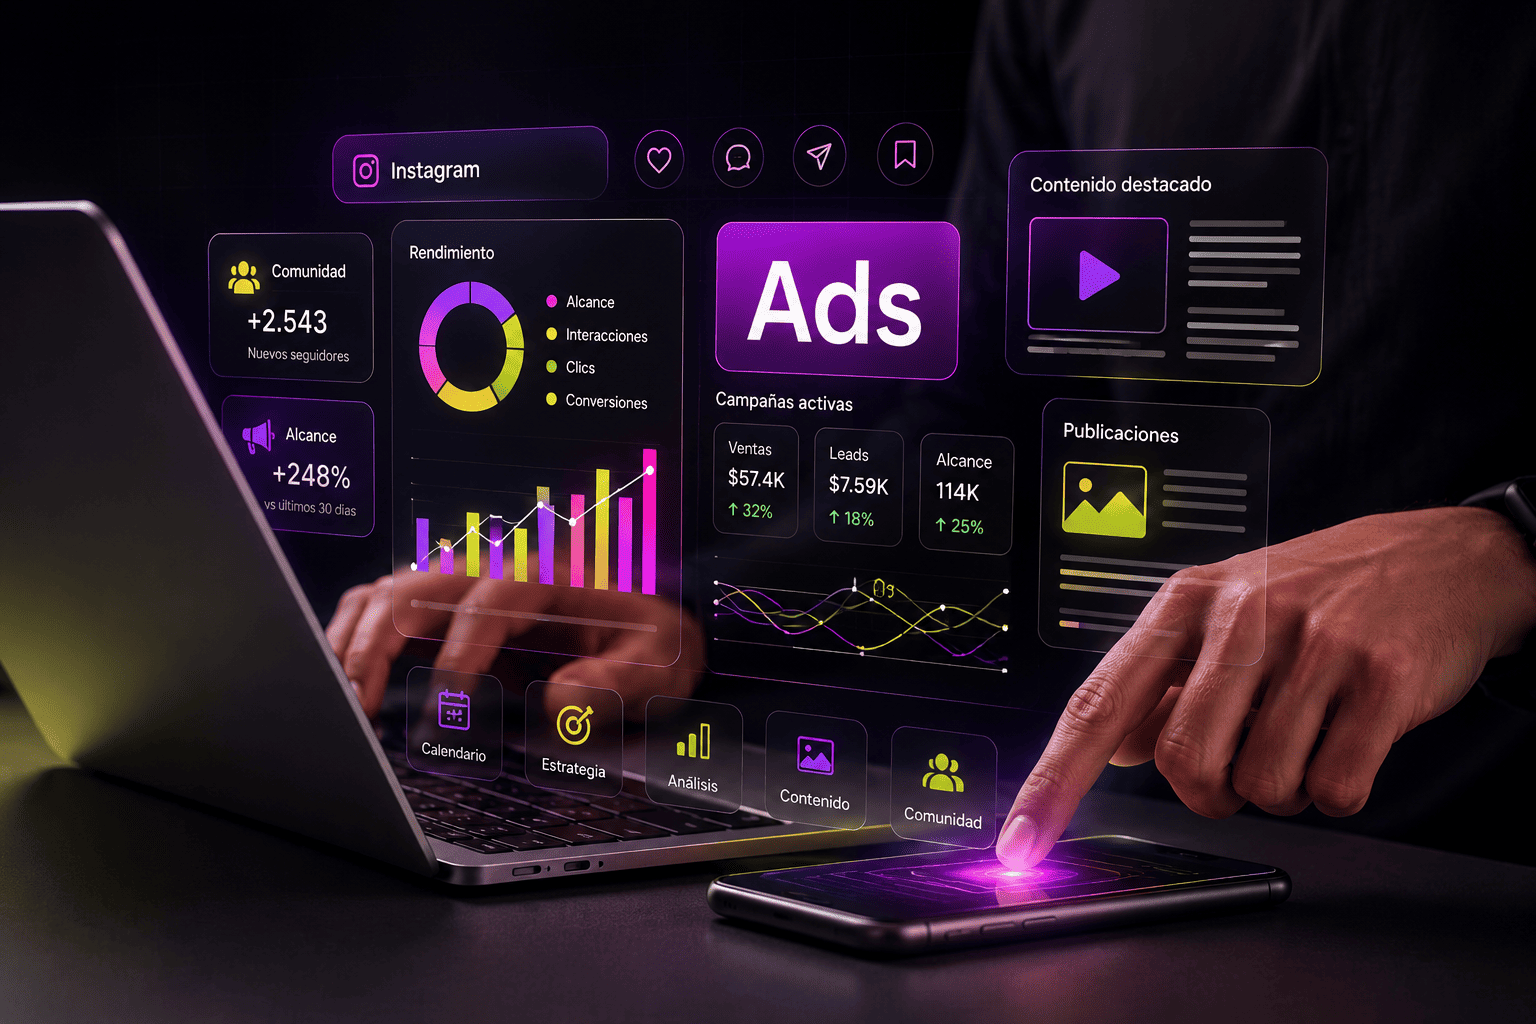
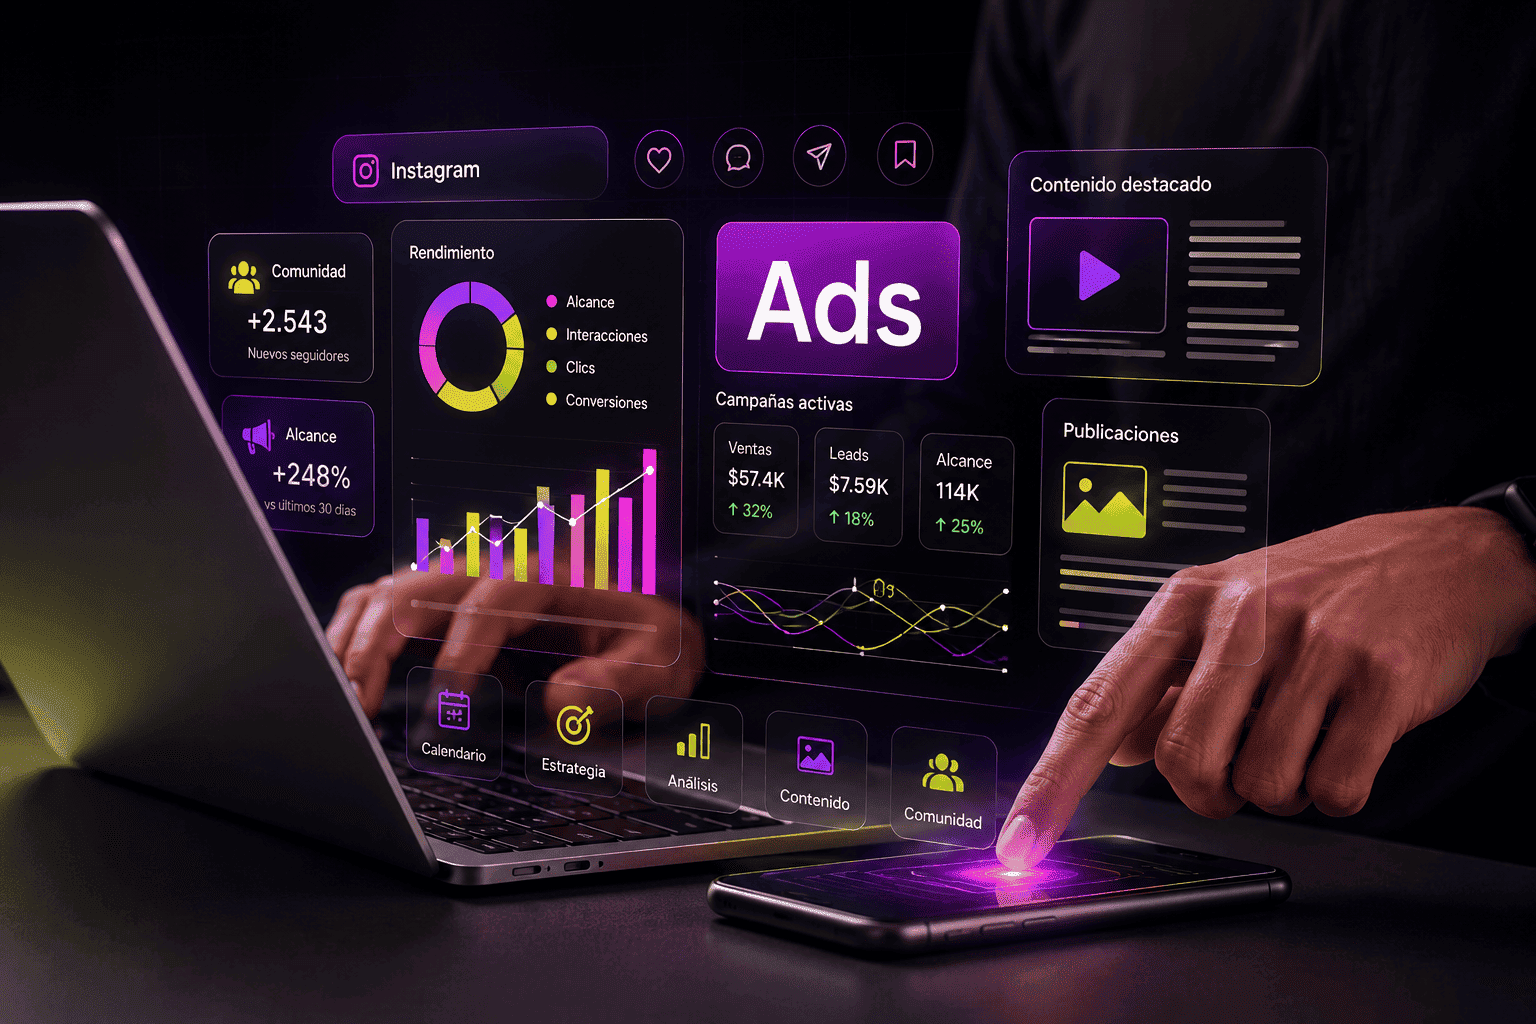
correccion servicios

diff --git a/src/components/ContratarServicioButton.tsx b/src/components/ContratarServicioButton.tsx
@@ -1,6 +1,8 @@
 "use client";
 
-import { useCart } from "@/lib/CartContext";
+import { useEffect, useState } from "react";
+import { supabase } from "@/lib/supabase";
+import { useCurrency } from "@/lib/CurrencyContext";
 import type { Servicio } from "@/lib/servicios";
 
 type ContratarServicioButtonProps = {
@@ -8,26 +10,35 @@ type ContratarServicioButtonProps = {
 };
 
 export default function ContratarServicioButton({ servicio }: ContratarServicioButtonProps) {
-  const { agregarItem, abrirCarrito } = useCart();
+  const { moneda } = useCurrency();
+  const [whatsapp, setWhatsapp] = useState("");
 
-  const handleContratar = () => {
-    agregarItem({
-      id: servicio.id,
-      titulo: servicio.titulo,
-      tipo: "servicio",
-      precio_ars: servicio.precio_ars,
-      precio_usd: servicio.precio_usd,
-      miniatura_url: servicio.miniatura_url,
-    });
-    abrirCarrito();
-  };
+  useEffect(() => {
+    supabase
+      .from("configuracion")
+      .select("whatsapp_numero")
+      .eq("id", 1)
+      .maybeSingle()
+      .then(({ data }) => setWhatsapp(data?.whatsapp_numero || ""));
+  }, []);
+
+  const precio = moneda === "ARS" ? servicio.precio_ars : servicio.precio_usd;
+  const precioTexto = `${moneda === "ARS" ? "$" : "U$D "}${Number(precio || 0).toLocaleString(moneda === "ARS" ? "es-AR" : "en-US")} ${moneda}`;
+
+  const whatsappLimpio = whatsapp.replace(/\D/g, "");
+  const mensaje = encodeURIComponent(
+    `¡Hola! Quiero contratar el servicio de "${servicio.titulo}" (${precioTexto}) 🚀`
+  );
+  const linkWhatsapp = whatsappLimpio ? `https://wa.me/${whatsappLimpio}?text=${mensaje}` : "#contacto";
 
   return (
-    <button
-      onClick={handleContratar}
+    <a
+      href={linkWhatsapp}
+      target="_blank"
+      rel="noopener noreferrer"
       className="w-full bg-[#ccff00] text-black font-black text-lg py-4 rounded-xl hover:bg-[#b8e600] transition-transform hover:-translate-y-1 shadow-[0_0_20px_rgba(204,255,0,0.2)] flex items-center justify-center gap-2"
     >
       Contratar <span>→</span>
-    </button>
+    </a>
   );
 }

diff --git a/src/components/landings/ServiceMockup.tsx b/src/components/landings/ServiceMockup.tsx
@@ -251,11 +251,8 @@ function MockupReel({ acento }: { acento: Acento }) {
         <span className="text-white text-xs font-bold">Listo para publicar</span>
       </Badge>
 
-      <div className="mx-auto max-w-[240px] aspect-[9/16] bg-white/5 backdrop-blur-xl border border-white/10 rounded-[2rem] shadow-2xl flex items-center justify-center relative overflow-hidden">
-        <div className={`absolute inset-0 bg-gradient-to-br ${c.gradientFrom}/20 to-transparent`} />
-        <span className={`relative w-16 h-16 rounded-full ${c.bg} border ${c.border} flex items-center justify-center`}>
-          <Play className={`w-6 h-6 ${c.text} translate-x-0.5`} fill="currentColor" />
-        </span>
+      <div className="mx-auto max-w-[240px] aspect-[9/16] bg-white/5 backdrop-blur-xl border border-white/10 rounded-[2rem] shadow-2xl relative overflow-hidden">
+        <Image src="/hero-edicion.jpg" alt="Reel editado profesionalmente para redes sociales" fill sizes="240px" className="object-cover" />
       </div>
     </div>
   );

diff --git a/src/components/landings/LandingHero.tsx b/src/components/landings/LandingHero.tsx
@@ -87,14 +87,14 @@ export default function LandingHero({
       <div className={`absolute top-1/3 left-1/2 -translate-x-1/2 -translate-y-1/2 w-[600px] h-[600px] ${colores.heroGlow} blur-[140px] rounded-full pointer-events-none`} />
 
       {tieneVisual ? (
-        <div className="relative z-10 max-w-6xl mx-auto px-6 py-24 md:py-32 grid grid-cols-1 lg:grid-cols-2 gap-16 items-center">
+        <div className="relative z-10 max-w-6xl mx-auto px-6 py-10 md:py-32 grid grid-cols-1 lg:grid-cols-2 gap-16 items-center">
           <div className="text-center lg:text-left">{encabezado}</div>
           <FadeInScroll y={20} delay={0.2} className="hidden lg:block">
             {visualPersonalizado ?? (mockup && <ServiceMockup variant={mockup} acento={acento} />)}
           </FadeInScroll>
         </div>
       ) : (
-        <div className="relative z-10 max-w-4xl mx-auto px-6 text-center py-24 md:py-32">{encabezado}</div>
+        <div className="relative z-10 max-w-4xl mx-auto px-6 text-center py-10 md:py-32">{encabezado}</div>
       )}
     </section>
   );